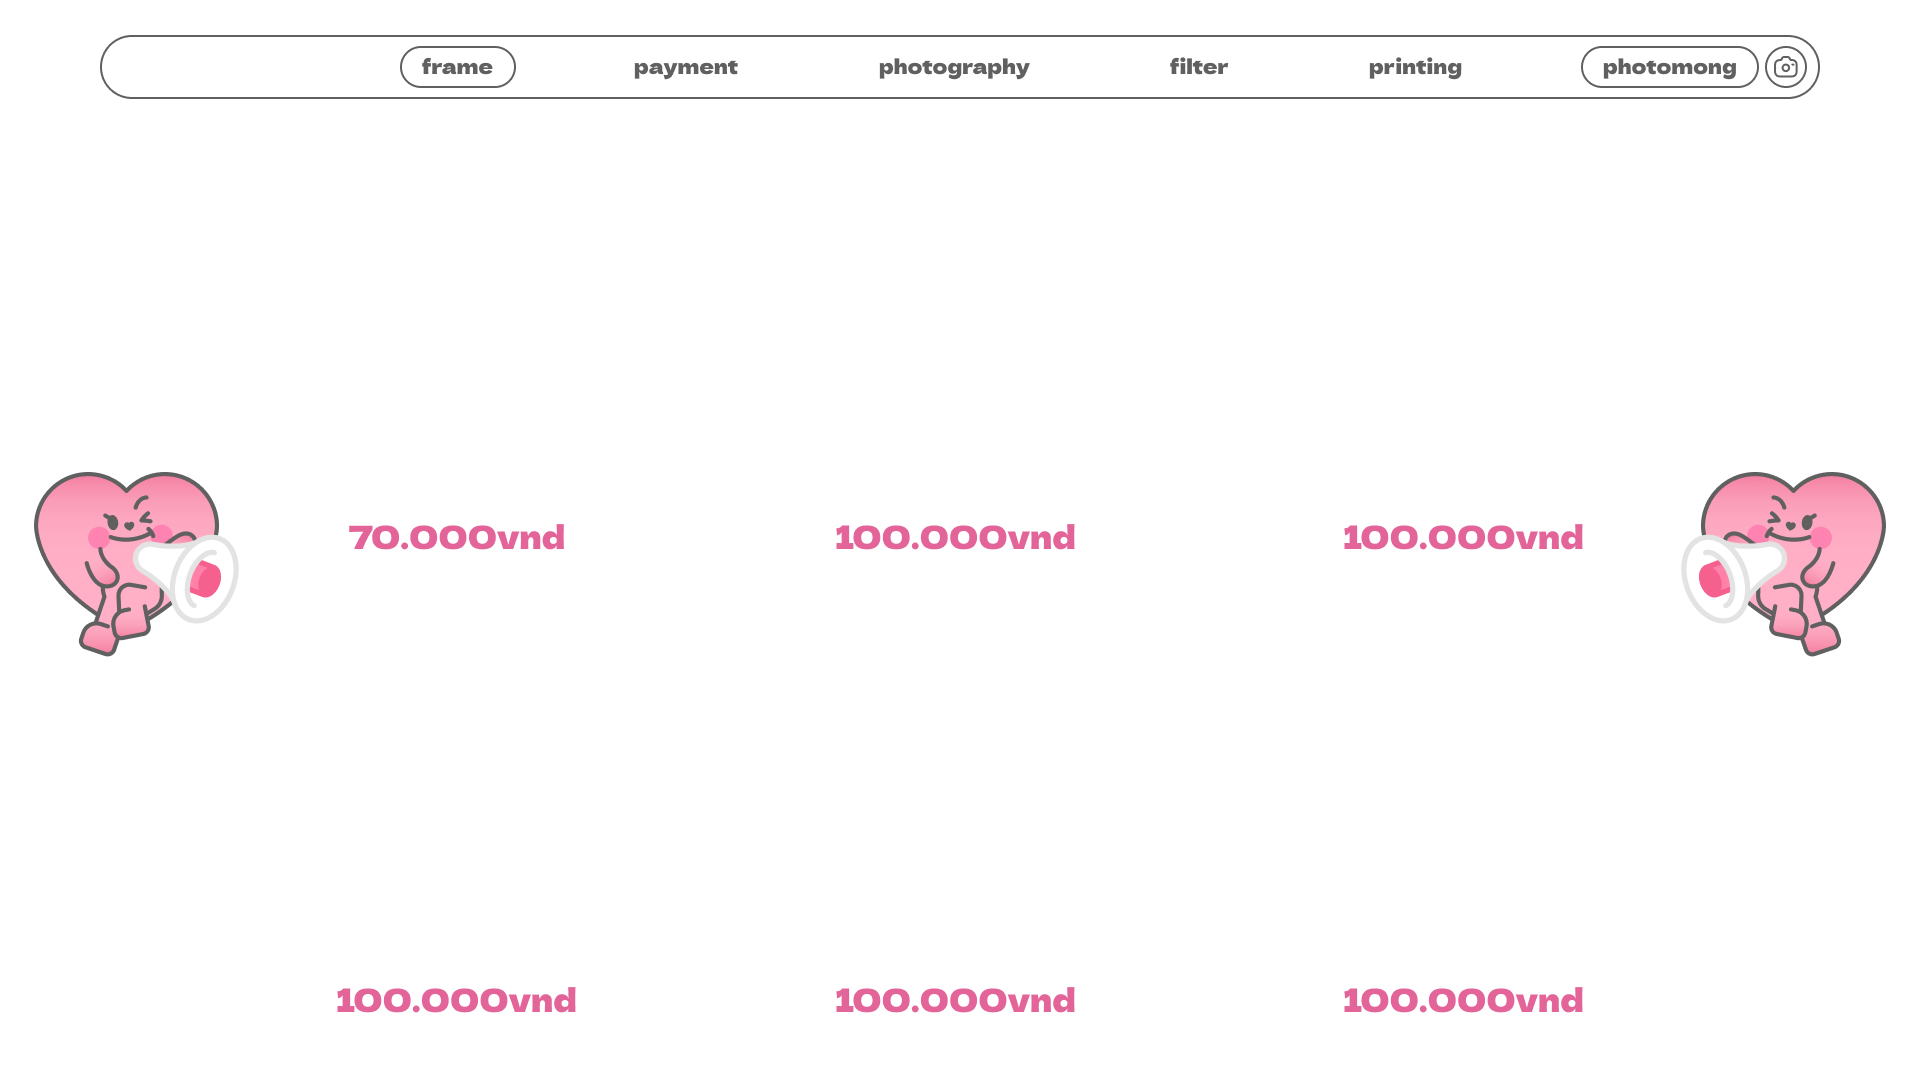
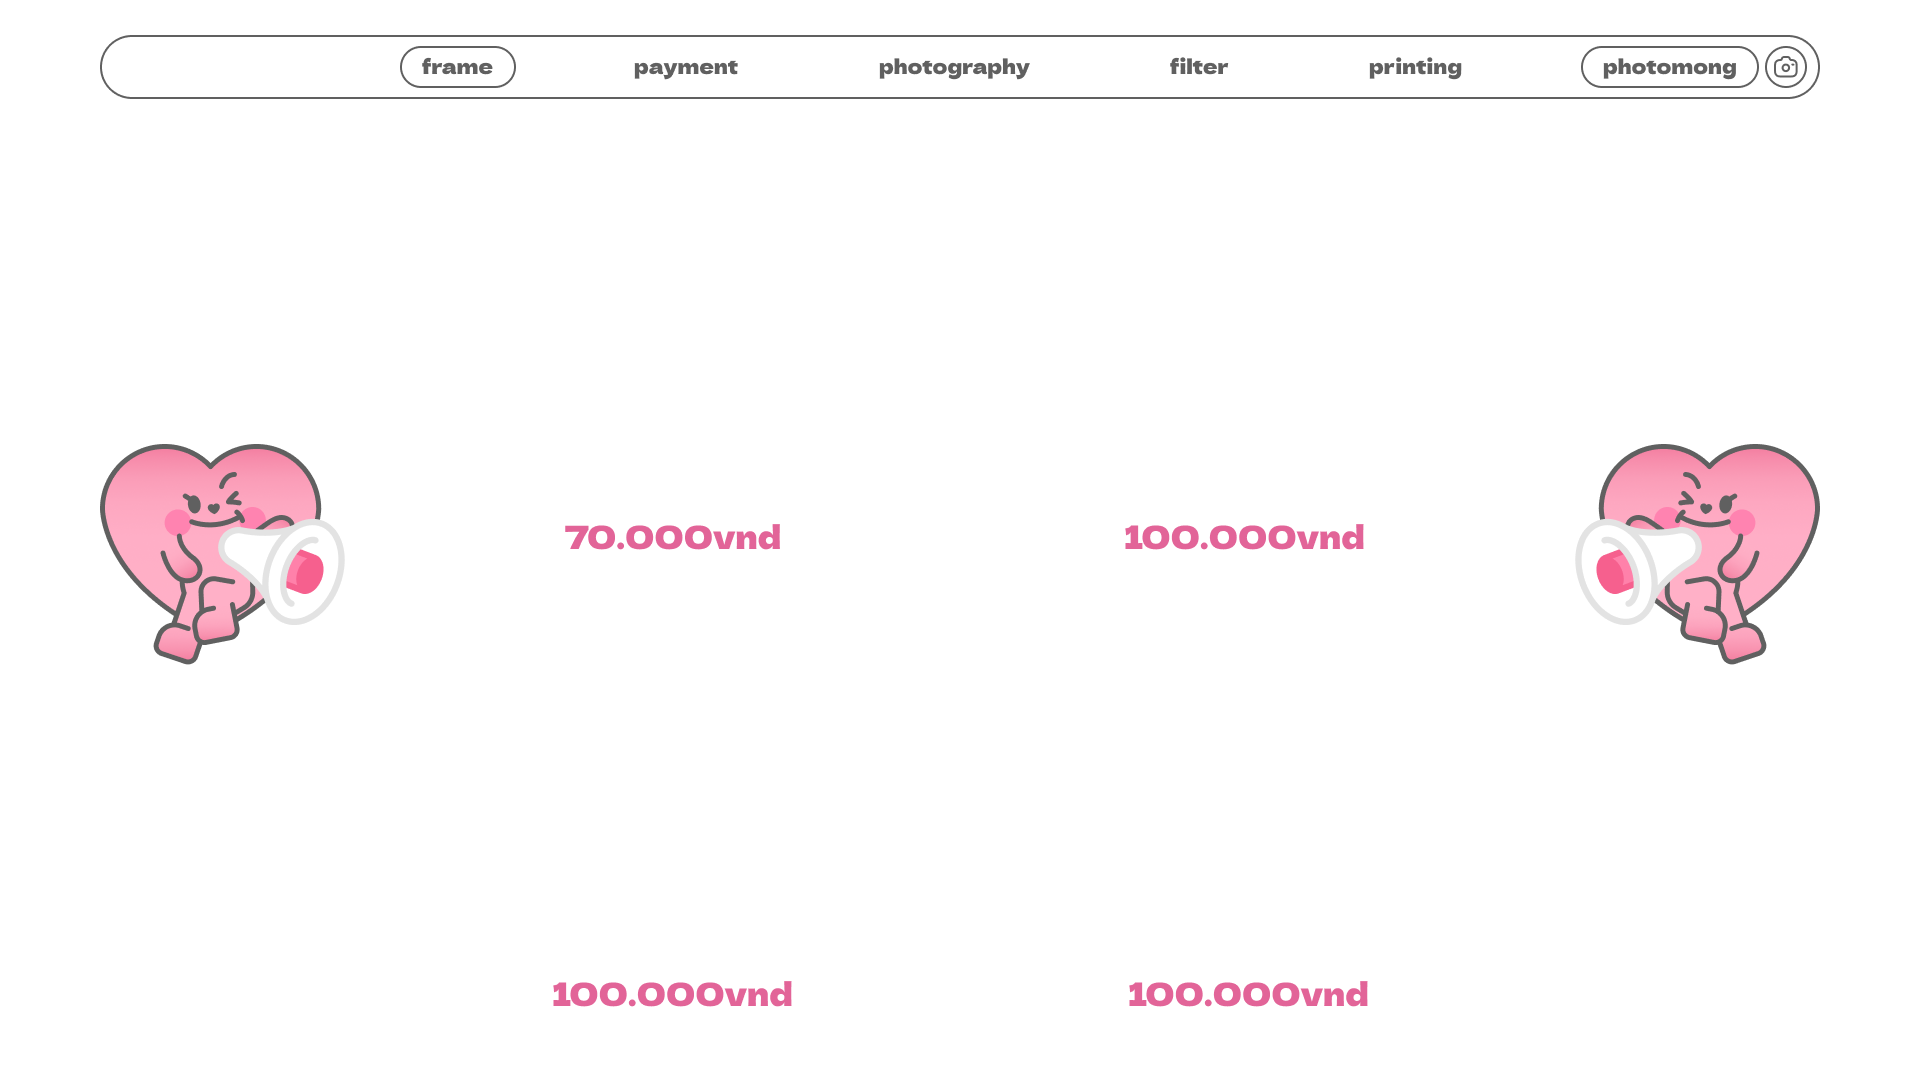
Remove some frame

diff --git a/app/src/screens/Frame/Frame.js b/app/src/screens/Frame/Frame.js
@@ -69,34 +69,34 @@ function Frame() {
 
   const fetchFrames = async () => {
     try {
-      const response = await axios.get(`${process.env.REACT_APP_BE_PROD}/frames/api`)
+      const response = await axios.get(`${process.env.REACT_APP_BACKEND}/frames/api`)
       const frames = response.data
 
       frames.forEach(frame => {
         if (frame.position === 'row-1-1') {
-          setFrameRow11(process.env.REACT_APP_BE_PROD + frame.photo);
-          setFrameRow11Hover(process.env.REACT_APP_BE_PROD + frame.photo_hover)
+          setFrameRow11(process.env.REACT_APP_BACKEND + frame.photo);
+          setFrameRow11Hover(process.env.REACT_APP_BACKEND + frame.photo_hover)
         }
         if (frame.position === 'row-1-2') {
-          setFrameRow12(process.env.REACT_APP_BE_PROD + frame.photo);
-          setFrameRow12Hover(process.env.REACT_APP_BE_PROD + frame.photo_hover);
+          setFrameRow12(process.env.REACT_APP_BACKEND + frame.photo);
+          setFrameRow12Hover(process.env.REACT_APP_BACKEND + frame.photo_hover);
         }
-        if (frame.position === 'row-1-3') {
-          setFrameRow13(process.env.REACT_APP_BE_PROD + frame.photo);
-          setFrameRow13Hover(process.env.REACT_APP_BE_PROD + frame.photo_hover)
-        }
+        // if (frame.position === 'row-1-3') {
+        //   setFrameRow13(process.env.REACT_APP_BACKEND + frame.photo);
+        //   setFrameRow13Hover(process.env.REACT_APP_BACKEND + frame.photo_hover)
+        // }
         if (frame.position === 'row-2-1') {
-          setFrameRow21(process.env.REACT_APP_BE_PROD + frame.photo);
-          setFrameRow21Hover(process.env.REACT_APP_BE_PROD + frame.photo_hover);
+          setFrameRow21(process.env.REACT_APP_BACKEND + frame.photo);
+          setFrameRow21Hover(process.env.REACT_APP_BACKEND + frame.photo_hover);
         }
         if (frame.position === 'row-2-2') {
-          setFrameRow22(process.env.REACT_APP_BE_PROD + frame.photo);
-          setFrameRow22Hover(process.env.REACT_APP_BE_PROD + frame.photo_hover);
+          setFrameRow22(process.env.REACT_APP_BACKEND + frame.photo);
+          setFrameRow22Hover(process.env.REACT_APP_BACKEND + frame.photo_hover);
         }
-        if (frame.position === 'row-2-3') {
-          setFrameRow23(process.env.REACT_APP_BE_PROD + frame.photo);
-          setFrameRow23Hover(process.env.REACT_APP_BE_PROD + frame.photo_hover);
-        }
+        // if (frame.position === 'row-2-3') {
+        //   setFrameRow23(process.env.REACT_APP_BACKEND + frame.photo);
+        //   setFrameRow23Hover(process.env.REACT_APP_BACKEND + frame.photo_hover);
+        // }
       });
     } catch (error) {
       console.error('Error fetching frames:', error);
@@ -135,25 +135,25 @@ function Frame() {
       <div className="go-back" style={{ backgroundImage: `url(${goBackBg})` }} onClick={() => navigate("/")} onMouseEnter={() => hoverGoBackBtn(language)} onMouseLeave={() => hoverGoBackBtn(language)}></div>
       <div className="topSection">
         <div className="column">
-          <div className="imageDiv-top" style={{ backgroundImage: `url( ${hoveredImage === frameRow11 ? frameRow11Hover : frameRow11})` }} onMouseEnter={() => handleMouseEnter(frameRow11)} onMouseLeave={handleMouseLeave} onClick={() => goToBackground('Stripx2', 70000)}></div>
+          <div className="imageDiv-top-left" style={{ backgroundImage: `url( ${hoveredImage === frameRow11 ? frameRow11Hover : frameRow11})` }} onMouseEnter={() => handleMouseEnter(frameRow11)} onMouseLeave={handleMouseLeave} onClick={() => goToBackground('Stripx2', 70000)}></div>
         </div>
         <div className="column">
-          <div className="imageDiv" style={{ backgroundImage: `url(${hoveredImage === frameRow12 ? frameRow12Hover : frameRow12})`, marginLeft: '-40%', }} onMouseEnter={() => handleMouseEnter(frameRow12)} onMouseLeave={handleMouseLeave} onClick={() => goToBackground('2cut-x2', 100000)}></div>
+          <div className="imageDiv-top-right" style={{ backgroundImage: `url(${hoveredImage === frameRow12 ? frameRow12Hover : frameRow12})`, marginLeft: '-40%', }} onMouseEnter={() => handleMouseEnter(frameRow12)} onMouseLeave={handleMouseLeave} onClick={() => goToBackground('2cut-x2', 100000)}></div>
         </div>
-        <div className="column">
+        {/* <div className="column">
           <div className="imageDiv-end" style={{ backgroundImage: `url(${hoveredImage === frameRow13 ? frameRow13Hover : frameRow13})`, marginLeft: '-80%' }} onMouseEnter={() => handleMouseEnter(frameRow13)} onMouseLeave={handleMouseLeave} onClick={() => goToBackground('3-cutx2', 100000)}></div>
-        </div>
+        </div> */}
       </div>
       <div className="bottomSection">
         <div className="column">
-          <div className="imageDiv-top" style={{ backgroundImage: `url(${hoveredImage === frameRow21 ? frameRow21Hover : frameRow21})` }} onMouseEnter={() => handleMouseEnter(frameRow21)} onMouseLeave={() => handleMouseLeave} onClick={() => goToBackground('4-cutx2', 100000)}></div>
+          <div className="imageDiv-bottom-left" style={{ backgroundImage: `url(${hoveredImage === frameRow21 ? frameRow21Hover : frameRow21})` }} onMouseEnter={() => handleMouseEnter(frameRow21)} onMouseLeave={() => handleMouseLeave} onClick={() => goToBackground('4-cutx2', 100000)}></div>
         </div>
         <div className="column">
-          <div className="imageDiv" style={{ backgroundImage: `url(${hoveredImage === frameRow22 ? frameRow22Hover : frameRow22})`, marginLeft: '-40%', }} onMouseEnter={() => handleMouseEnter(frameRow22)} onMouseLeave={() => handleMouseLeave} onClick={() => goToBackground('5-cutx2', 100000)}></div>
+          <div className="imageDiv-bottom-right" style={{ backgroundImage: `url(${hoveredImage === frameRow22 ? frameRow22Hover : frameRow22})`, marginLeft: '-40%', }} onMouseEnter={() => handleMouseEnter(frameRow22)} onMouseLeave={() => handleMouseLeave} onClick={() => goToBackground('6-cutx2', 100000)}></div>
         </div>
-        <div className="column">
+        {/* <div className="column">
           <div className="imageDiv-end" style={{ backgroundImage: `url(${hoveredImage === frameRow23 ? frameRow23Hover : frameRow23})`, marginLeft: '-80%' }} onMouseEnter={() => handleMouseEnter(frameRow23)} onMouseLeave={() => handleMouseLeave} onClick={() => goToBackground('6-cutx2', 100000)}></div>
-        </div>
+        </div> */}
       </div>
     </div>
   );

diff --git a/app/src/screens/Frame/Background.js b/app/src/screens/Frame/Background.js
@@ -60,14 +60,14 @@ function Background() {
 
      const fetchBackgrounds = async () => {
           try {
-               const response = await axios.get(`${process.env.REACT_APP_BE_PROD}/backgrounds/api`)
+               const response = await axios.get(`${process.env.REACT_APP_BACKEND}/backgrounds/api`)
                const backgroundDatas = response.data
                const storedLanguage = sessionStorage.getItem('language');
 
                const newBackgrounds = backgroundDatas.map(item => ({
                     title: item.title,
-                    photo: (storedLanguage === 'en' ? process.env.REACT_APP_BE_PROD + item.photo : (storedLanguage === 'ko' ? process.env.REACT_APP_BACKEND + item.photo_kr : process.env.REACT_APP_BACKEND + item.photo_vn)),
-                    photo_hover: (storedLanguage === 'en' ? process.env.REACT_APP_BE_PROD + item.photo_hover : (storedLanguage === 'ko' ? process.env.REACT_APP_BACKEND + item.photo_kr_hover : process.env.REACT_APP_BACKEND + item.photo_vn_hover))
+                    photo: (storedLanguage === 'en' ? process.env.REACT_APP_BACKEND + item.photo : (storedLanguage === 'ko' ? process.env.REACT_APP_BACKEND + item.photo_kr : process.env.REACT_APP_BACKEND + item.photo_vn)),
+                    photo_hover: (storedLanguage === 'en' ? process.env.REACT_APP_BACKEND + item.photo_hover : (storedLanguage === 'ko' ? process.env.REACT_APP_BACKEND + item.photo_kr_hover : process.env.REACT_APP_BACKEND + item.photo_vn_hover))
                }));
                setBackgrounds(backgrounds.concat(newBackgrounds));
           } catch (error) {

diff --git a/app/src/screens/Frame/Layout.js b/app/src/screens/Frame/Layout.js
@@ -118,13 +118,13 @@ function Layout() {
           const fetchLayoutsByBackground = async () => {
                try {
                     const frame = sessionStorage.getItem('selectedFrame');
-                    const response = await axios.get(`${process.env.REACT_APP_BE_PROD}/layouts/api/by-background/` + sessionStorage.getItem('styleBg') + '/frame/' + JSON.parse(frame).frame);
+                    const response = await axios.get(`${process.env.REACT_APP_BACKEND}/layouts/api/by-background/` + sessionStorage.getItem('styleBg') + '/frame/' + JSON.parse(frame).frame);
                     const layoutDatas = response.data
                     const newBackgrounds = layoutDatas.map(item => ({
                          title: item.title,
-                         photo: process.env.REACT_APP_BE_PROD + item.photo,
-                         photo_cover: process.env.REACT_APP_BE_PROD + item.photo_cover,
-                         photo_full: process.env.REACT_APP_BE_PROD + item.photo_full
+                         photo: process.env.REACT_APP_BACKEND + item.photo,
+                         photo_cover: process.env.REACT_APP_BACKEND + item.photo_cover,
+                         photo_full: process.env.REACT_APP_BACKEND + item.photo_full
                     }));
                     setLayouts(newBackgrounds);
                } catch (error) {

diff --git a/app/src/css/Frame.css b/app/src/css/Frame.css
@@ -73,6 +73,29 @@
     position: relative;
 }
 
+.imageDiv-bottom-left {
+    width: 50%;
+    height: 300px;
+    background-size: contain;
+    background-repeat: no-repeat;
+    background-position: center;
+    left: 59%;
+    bottom: 38%;
+    position: relative;
+}
+
+.imageDiv-bottom-right {
+    width: 50%;
+    height: 300px;
+    /* Adjust height as needed */
+    background-size: contain;
+    background-repeat: no-repeat;
+    background-position: center;
+    left: 31%;
+    bottom: 38%;
+    position: relative;
+}
+
 .imageDiv-top {
     width: 50%;
     height: 300px;
@@ -82,6 +105,28 @@
     background-position: center;
     left: 50%;
     bottom: 65%;
+    position: relative;
+}
+
+.imageDiv-top-left {
+    width: 50%;
+    height: 300px;
+    background-size: contain;
+    background-repeat: no-repeat;
+    background-position: center;
+    left: 59%;
+    bottom: 63%;
+    position: relative;
+}
+
+.imageDiv-top-right {
+    width: 50%;
+    height: 300px;
+    background-size: contain;
+    background-repeat: no-repeat;
+    background-position: center;
+    left: 31%;
+    bottom: 63%;
     position: relative;
 }
 

diff --git a/backend/background/views.py b/backend/background/views.py
@@ -21,7 +21,7 @@ BACKGROUND_POSITIONS = ['row-1-1', 'row-1-2', 'row-1-3', 'row-1-4', 'row-1-5']
 class BackgroundAPI(APIView):    
     
     def get(self, request, *args, **kwargs):
-        backgrounds = Background.objects.all()
+        backgrounds = Background.objects.exclude(title='Collab')
         serializer = BackgroundSerializer(backgrounds, many=True)
         return Response(serializer.data, status=status.HTTP_200_OK)     
     
@@ -57,7 +57,7 @@ class BackgroundDetailAPI(APIView):
 class BackgroundList(LoginRequiredMixin, ListView):
     
     def get(self, request):
-        backgrounds = Background.objects.all()
+        backgrounds = Background.objects.all()        
         return render(request, 'backgrounds/list.html', {'backgrounds': backgrounds})
     
 class BackgroundCreateView(LoginRequiredMixin, View):

diff --git a/backend/frame/views.py b/backend/frame/views.py
@@ -143,7 +143,8 @@ class UploadPhotoCloud(APIView):
 class FrameAPI(APIView):
     
     def get(self, request, *args, **kwargs):
-        frames = Frame.objects.all()
+        frames = Frame.objects.exclude(title='3-cutx2').exclude(title='5-cutx2')        
+
         serializer = FrameSerializer(frames, many=True)
         return Response(serializer.data, status=status.HTTP_200_OK)
 
@@ -214,7 +215,7 @@ class FrameList(LoginRequiredMixin, View):
 
     def get(self, request, *args, **kwargs):
         devices = Device.objects.all()
-        frames = Frame.objects.all()
+        frames = Frame.objects.exclude(title='3-cutx2').exclude(title='5-cutx2')
         return render(
             request, self.template_name, {"devices": devices, "frames": frames}
         )
